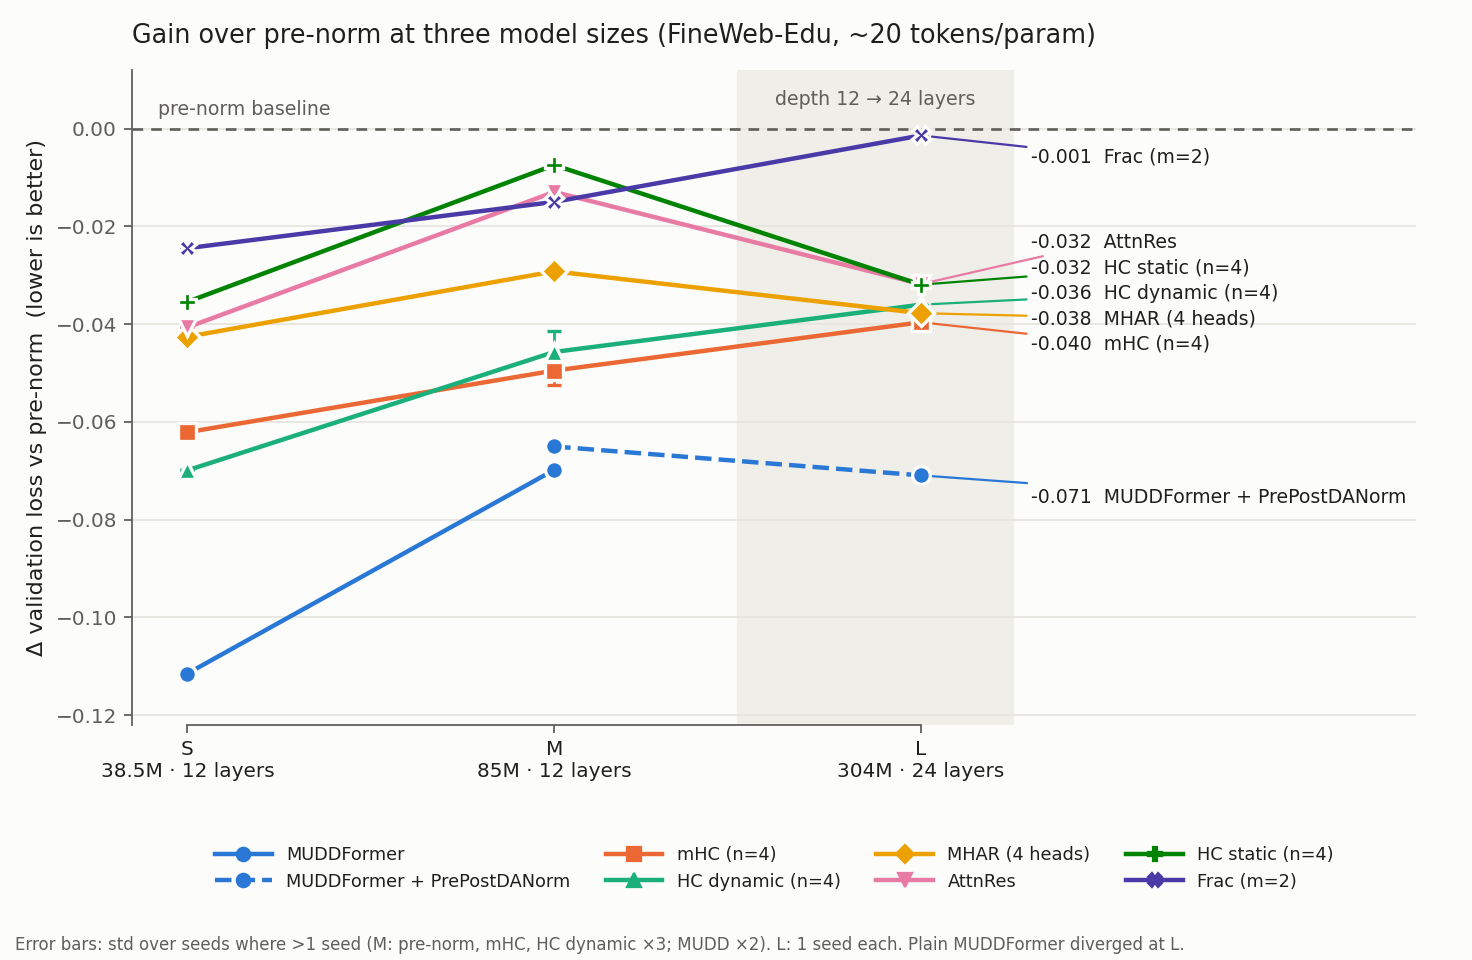
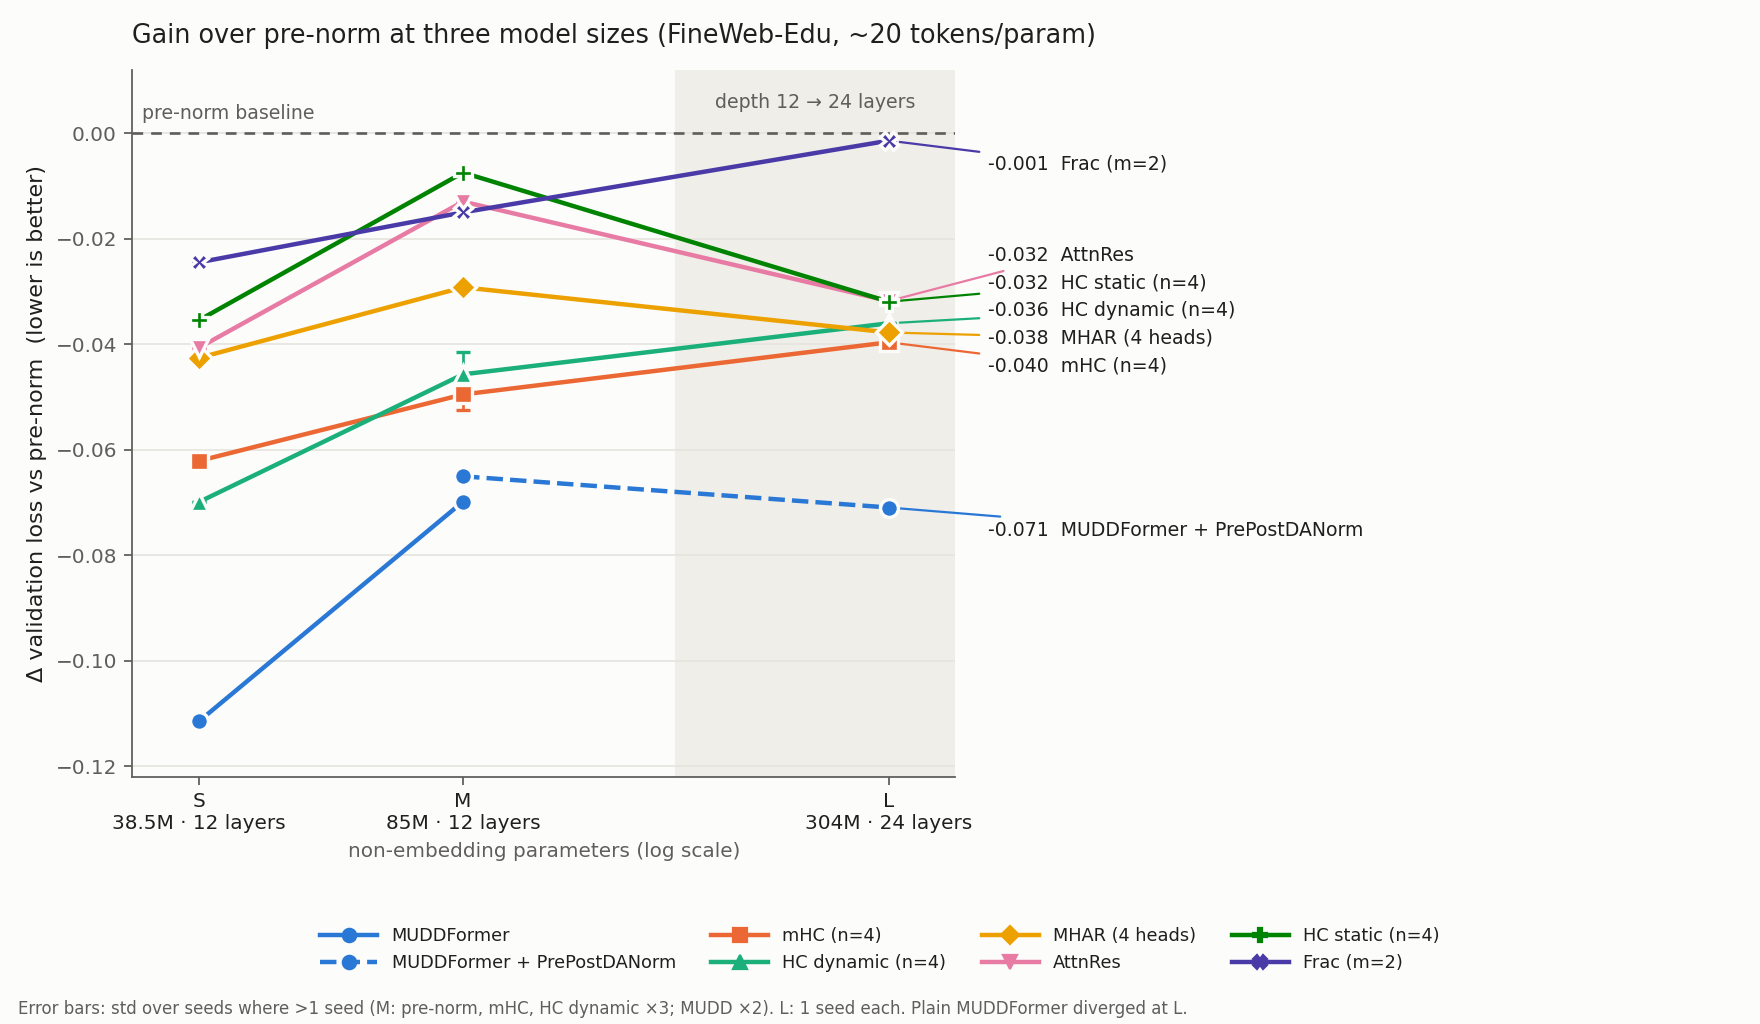
scaling figure: log-parameter x-axis to scale, labels in right margin, axis/band end at data edge

diff --git a/scripts/plot_scaling_gpu.py b/scripts/plot_scaling_gpu.py
@@ -19,6 +19,8 @@ import matplotlib
 
 matplotlib.use("Agg")
 import matplotlib.lines  # noqa: E402
+import matplotlib.ticker  # noqa: E402
+import matplotlib.transforms  # noqa: E402
 import matplotlib.pyplot as plt  # noqa: E402
 
 # Fixed categorical order (validated palette, light surface). A method keeps its
@@ -81,16 +83,21 @@ def main():
     base = {s: st.mean(r["final_val_loss"] for r in data[(s, "prenorm")]) for s, _ in SIZES
             if (s, "prenorm") in data}
     base_tps = {s: st.mean(r["tok_per_s"] for r in data[(s, "prenorm")]) for s in base}
-    xpos = {s: i for i, (s, _) in enumerate(SIZES)}
+    # x = real non-embedding parameter count of the pre-norm model at each size (log axis)
+    xpos = {s: data[(s, "prenorm")][0]["params_non_embedding"] for s, _ in SIZES}
+    x_lo, x_hi = xpos["s"] / 1.22, xpos["l"] * 1.22
 
     # ---- gain vs size -------------------------------------------------------
-    fig, ax = plt.subplots(figsize=(9.2, 6.0), facecolor=SURFACE)
+    fig, ax = plt.subplots(figsize=(11, 6.4), facecolor=SURFACE)
     style_axes(ax)
     ax.axhline(0, color=INK2, lw=1.2, ls=(0, (4, 3)))
-    ax.text(-0.08, 0.002, "pre-norm baseline", color=INK2, fontsize=8.5, va="bottom")
+    ax.set_xscale("log")
+    ax.text(x_lo * 1.03, 0.002, "pre-norm baseline", color=INK2, fontsize=8.5, va="bottom")
     # depth changes between M and L: mark it, since it confounds the M→L step
-    ax.axvspan(1.5, 2.25, color="#efeee9", zorder=0)
-    ax.text(1.875, 0.004, "depth 12 → 24 layers", color=INK2, fontsize=8.5, va="bottom", ha="center")
+    mid = (xpos["m"] * xpos["l"]) ** 0.5
+    ax.axvspan(mid, x_hi, color="#efeee9", zorder=0)
+    ax.text((mid * x_hi) ** 0.5, 0.004, "depth 12 → 24 layers", color=INK2, fontsize=8.5,
+            va="bottom", ha="center")
 
     ends, handles = [], []
     for keys, label, color, marker, ls in METHODS:
@@ -109,28 +116,30 @@ def main():
                     elinewidth=1.2, capsize=3, zorder=4)
         handles.append(matplotlib.lines.Line2D([], [], color=color, ls=ls, lw=2, marker=marker,
                                                ms=6, mec=color, label=label))
-        if xs[-1] == 2:
+        if xs[-1] == xpos["l"]:
             ends.append((ys[-1], label, color))
     # direct labels at the L end (values + names), spread to avoid collisions
     ly = spread([e[0] for e in ends], 0.0052)
+    trans = matplotlib.transforms.blended_transform_factory(ax.transAxes, ax.transData)
     for (y, label, color), y2 in zip(ends, ly):
-        ax.annotate(f"{y:+.3f}  {label}", xy=(2, y), xytext=(2.3, y2), textcoords="data",
-                    fontsize=8.5, color=INK, va="center",
-                    arrowprops=dict(arrowstyle="-", color=color, lw=1, shrinkA=0, shrinkB=5))
+        ax.annotate(f"{y:+.3f}  {label}", xy=(xpos["l"], y), xytext=(1.04, y2),
+                    textcoords=trans, fontsize=8.5, color=INK, va="center", annotation_clip=False,
+                    arrowprops=dict(arrowstyle="-", color=color, lw=1, shrinkA=2, shrinkB=5))
 
-    ax.set_xticks(range(len(SIZES)), [lab for _, lab in SIZES], color=INK)
-    ax.set_xlim(-0.15, 3.35)
+    ax.set_xlim(x_lo, x_hi)
+    ax.set_xticks([xpos[s] for s, _ in SIZES], [lab for _, lab in SIZES], color=INK)
+    ax.xaxis.set_minor_locator(matplotlib.ticker.NullLocator())
+    ax.set_xlabel("non-embedding parameters (log scale)", color=INK2, fontsize=9)
     ax.set_ylabel("Δ validation loss vs pre-norm  (lower is better)", color=INK, fontsize=10)
     ax.set_title("Gain over pre-norm at three model sizes (FineWeb-Edu, ~20 tokens/param)",
                  color=INK, fontsize=11.5, loc="left", pad=12)
     ax.set_ylim(-0.122, 0.012)
-    ax.legend(handles=handles, loc="upper center", bbox_to_anchor=(0.5, -0.16), fontsize=8,
-              frameon=False, ncol=4, labelcolor=INK, handlelength=3.2)
-    ax.spines["bottom"].set_bounds(0, 2)
+    fig.legend(handles=handles, loc="lower center", bbox_to_anchor=(0.5, 0.035), fontsize=8,
+               frameon=False, ncol=4, labelcolor=INK, handlelength=3.2)
     fig.text(0.01, 0.01, "Error bars: std over seeds where >1 seed (M: pre-norm, mHC, HC dynamic ×3; "
              "MUDD ×2). L: 1 seed each. Plain MUDDFormer diverged at L.",
              fontsize=7.5, color=INK2)
-    fig.tight_layout(rect=(0, 0.03, 1, 1))
+    fig.tight_layout(rect=(0, 0.13, 0.8, 1))  # right margin: direct labels; bottom: legend
     fig.savefig(os.path.join(args.out, "gain_vs_size.png"), dpi=160, facecolor=SURFACE)
     plt.close(fig)
 
